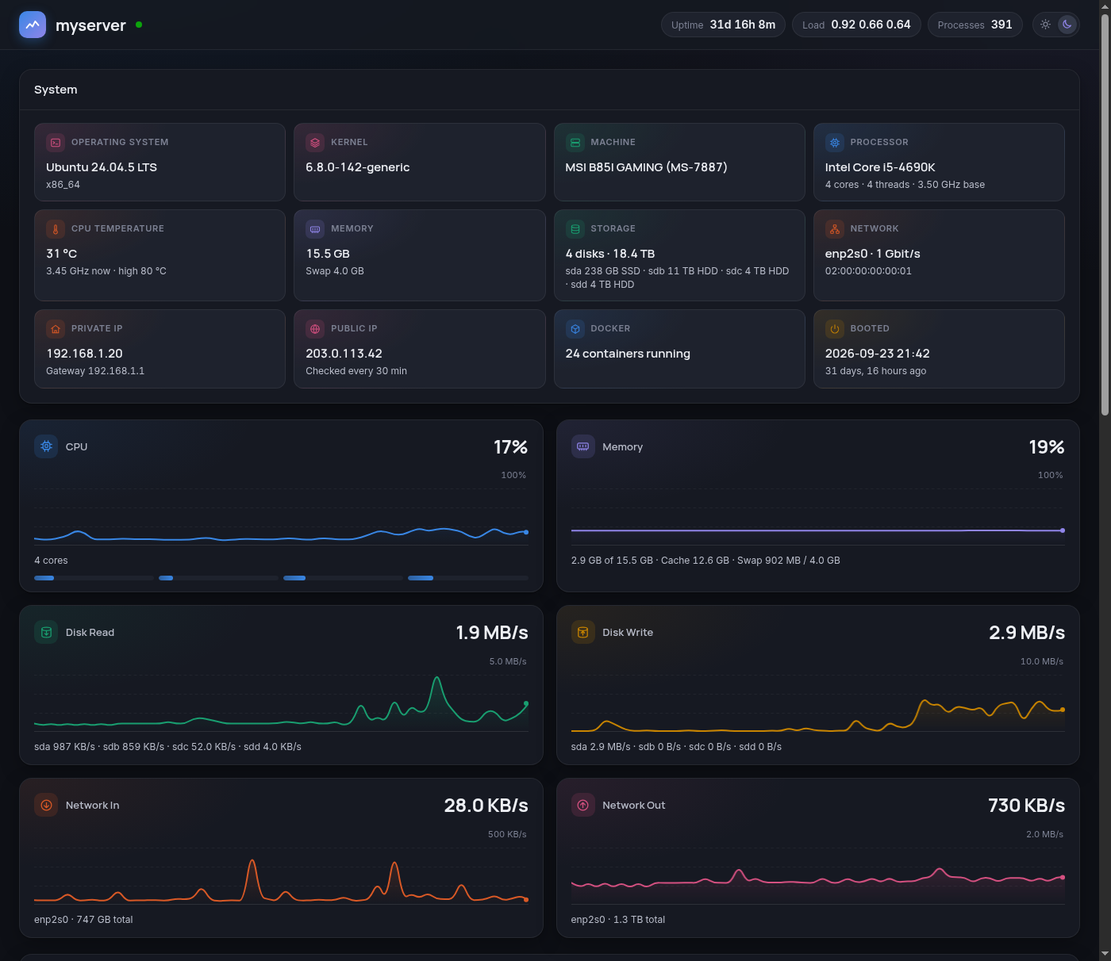
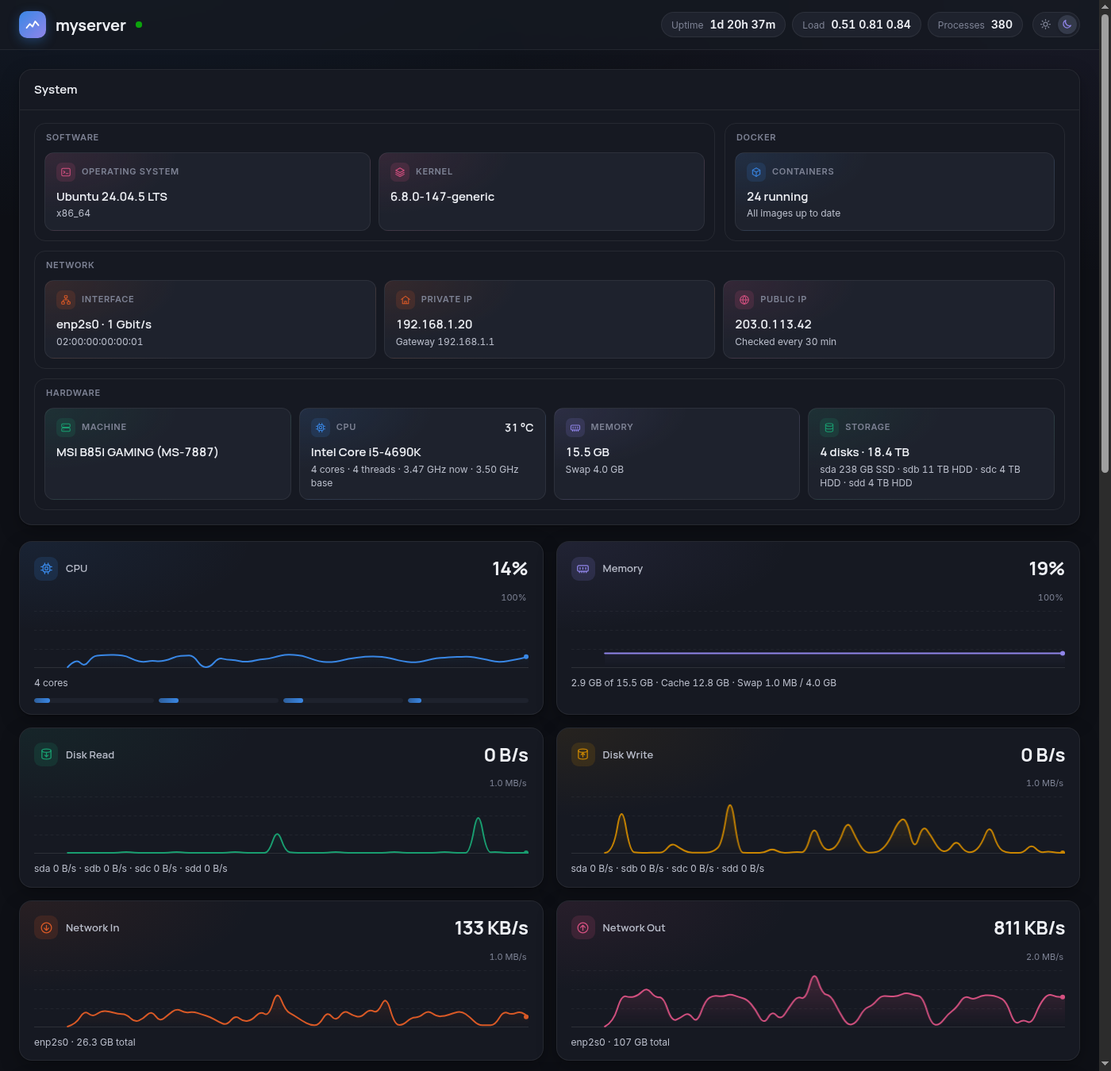
System panel: group the tiles into Software, Docker, Network and Hardware
CPU temperature moves into the CPU tile, and the Booted tile is gone
(the top bar already shows the uptime).

diff --git a/app/static/app.js b/app/static/app.js
@@ -243,45 +243,56 @@ const SYS_ICONS = {
   kernel: '<path d="M12 3l9 5-9 5-9-5 9-5z"/><path d="M3 12.5l9 5 9-5M3 16.5l9 5 9-5"/>',
   machine: '<rect x="3" y="4" width="18" height="7" rx="2"/><rect x="3" y="13" width="18" height="7" rx="2"/><path d="M7 7.5h.01M7 16.5h.01"/>',
   cpu: '<rect x="6" y="6" width="12" height="12" rx="2.5"/><rect x="9.5" y="9.5" width="5" height="5" rx="1"/><path d="M9 2.5v3M15 2.5v3M9 18.5v3M15 18.5v3M2.5 9h3M2.5 15h3M18.5 9h3M18.5 15h3"/>',
-  temp: '<path d="M14 14.8V5a2 2 0 0 0-4 0v9.8a4 4 0 1 0 4 0z"/><path d="M12 17.5v-6"/>',
   mem: '<rect x="2.5" y="7" width="19" height="10" rx="2"/><path d="M7 10.5v3M12 10.5v3M17 10.5v3M6 17v2.5M10 17v2.5M14 17v2.5M18 17v2.5"/>',
   disk: '<ellipse cx="12" cy="6" rx="8" ry="3"/><path d="M4 6v12c0 1.7 3.6 3 8 3s8-1.3 8-3V6M4 12c0 1.7 3.6 3 8 3s8-1.3 8-3"/>',
   net: '<rect x="9" y="3" width="6" height="5" rx="1"/><rect x="3" y="16" width="6" height="5" rx="1"/><rect x="15" y="16" width="6" height="5" rx="1"/><path d="M12 8v4M6 16v-2a2 2 0 0 1 2-2h8a2 2 0 0 1 2 2v2"/>',
   home: '<path d="M3 11l9-7 9 7"/><path d="M5.5 9.5V20h13V9.5M10 20v-5h4v5"/>',
   globe: '<circle cx="12" cy="12" r="9"/><path d="M3 12h18M12 3c2.5 2.5 3.5 5.5 3.5 9s-1 6.5-3.5 9c-2.5-2.5-3.5-5.5-3.5-9s1-6.5 3.5-9z"/>',
   box: '<path d="M12 3l8 4.5v9L12 21l-8-4.5v-9L12 3z"/><path d="M4 7.5l8 4.5 8-4.5M12 12v9"/>',
-  power: '<path d="M12 3v8"/><path d="M6.3 6.8a8 8 0 1 0 11.4 0"/>',
 };
 
 function renderSystem(s, upd) {
   const temp = s.cpu_temp;
-  // [label, value, sub, icon, colour token, extra class]; colours follow the meters where a tile matches one
-  const tiles = [
-    ["Operating system", s.os, s.arch, "os", "--c-net-out"],
-    ["Kernel", s.kernel, "", "kernel", "--c-net-out"],
-    ["Machine", s.machine || "—", "", "machine", "--c-disk-r"],
-    ["Processor", s.cpu_model, [`${s.cores} cores · ${s.threads} threads`, s.cpu_base && `${s.cpu_base} base`].filter(Boolean).join(" · "), "cpu", "--c-cpu"],
-    ["CPU temperature", temp ? `${Math.round(temp.current)} °C` : "—",
-      [s.cpu_freq && `${fmtGHz(s.cpu_freq)} now`, temp?.high && `high ${Math.round(temp.high)} °C`].filter(Boolean).join(" · "),
-      "temp", "--c-net-in", temp?.high && temp.current >= temp.high ? "crit" : ""],
-    ["Memory", fmtBytes(s.mem_total), `Swap ${fmtBytes(s.swap_total)}`, "mem", "--c-mem"],
-    ["Storage", `${s.disks.length} disks · ${fmtBytes(s.disks.reduce((t, d) => t + d.size, 0))}`,
-      s.disks.map((d) => `${d.name} ${fmtBytes(d.size, 0)} ${d.kind}`).join(" · "), "disk", "--c-disk-r"],
-    ["Network", s.nics.map((n) => n.speed > 0 ? `${n.name} · ${fmtSpeed(n.speed)}` : n.name).join(", ") || "—", s.nics.map((n) => n.mac).join(", "), "net", "--c-net-in"],
-    ["Private IP", s.private_ips.join(", ") || "—", s.gateway ? `Gateway ${s.gateway}` : "", "home", "--c-net-in"],
-    ["Public IP", s.public_ip || (s.public_ip_enabled ? "Looking up…" : "Off"), s.public_ip_enabled ? "Checked every 30 min" : "", "globe", "--c-net-out"],
-    // clickable when the container check runs: it opens the list of containers
-    ["Docker", `${s.containers} containers running`,
-      upd?.images ? (upd.containers ? `${upd.containers} update${upd.containers === 1 ? "" : "s"} available` : "All images up to date") : "",
-      "box", "--c-cpu", upd?.images ? "clickable" + (upd.containers ? " warn" : "") : ""],
-    ["Booted", new Date(s.boot * 1000).toLocaleString("sv-SE", { dateStyle: "short", timeStyle: "short" }), fmtAgo(Date.now() / 1000 - s.boot), "power", "--c-disk-w"],
+  // [label, value, sub, icon, colour token, extra class, aside]; colours follow the meters where a tile matches one.
+  // The aside sits at the right end of the tile's label: the CPU temperature
+  const groups = [
+    ["Software", "", [
+      ["Operating system", s.os, s.arch, "os", "--c-net-out"],
+      ["Kernel", s.kernel, "", "kernel", "--c-net-out"],
+    ]],
+    ["Docker", "", [
+      // clickable when the container check runs: it opens the list of containers
+      ["Containers", `${s.containers} running`,
+        upd?.images ? (upd.containers ? `${upd.containers} update${upd.containers === 1 ? "" : "s"} available` : "All images up to date") : "",
+        "box", "--c-cpu", upd?.images ? "clickable" + (upd.containers ? " warn" : "") : ""],
+    ]],
+    ["Network", "wide", [
+      ["Interface", s.nics.map((n) => n.speed > 0 ? `${n.name} · ${fmtSpeed(n.speed)}` : n.name).join(", ") || "—", s.nics.map((n) => n.mac).join(", "), "net", "--c-net-in"],
+      ["Private IP", s.private_ips.join(", ") || "—", s.gateway ? `Gateway ${s.gateway}` : "", "home", "--c-net-in"],
+      ["Public IP", s.public_ip || (s.public_ip_enabled ? "Looking up…" : "Off"), s.public_ip_enabled ? "Checked every 30 min" : "", "globe", "--c-net-out"],
+    ]],
+    ["Hardware", "wide", [
+      ["Machine", s.machine || "—", "", "machine", "--c-disk-r"],
+      ["CPU", s.cpu_model,
+        [`${s.cores} cores · ${s.threads} threads`, s.cpu_freq && `${fmtGHz(s.cpu_freq)} now`, s.cpu_base && `${s.cpu_base} base`].filter(Boolean).join(" · "),
+        "cpu", "--c-cpu", temp?.high && temp.current >= temp.high ? "crit" : "",
+        temp && { text: `${Math.round(temp.current)} °C`, title: temp.high ? `CPU temperature · high ${Math.round(temp.high)} °C` : "CPU temperature" }],
+      ["Memory", fmtBytes(s.mem_total), `Swap ${fmtBytes(s.swap_total)}`, "mem", "--c-mem"],
+      ["Storage", `${s.disks.length} disks · ${fmtBytes(s.disks.reduce((t, d) => t + d.size, 0))}`,
+        s.disks.map((d) => `${d.name} ${fmtBytes(d.size, 0)} ${d.kind}`).join(" · "), "disk", "--c-disk-r"],
+    ]],
   ];
-  $("sysinfo").innerHTML = tiles.map(([label, value, sub, icon, color, cls]) => `
+  const tile = ([label, value, sub, icon, color, cls, aside]) => `
     <div class="${cls || ""}" style="--series: var(${color})" data-tile="${icon}"${cls?.includes("clickable") ? ' role="button" tabindex="0"' : ""}>
-      <dt><span class="icon"><svg viewBox="0 0 24 24" fill="none" stroke="currentColor" stroke-width="1.8" stroke-linecap="round" stroke-linejoin="round" aria-hidden="true">${SYS_ICONS[icon]}</svg></span>${esc(label)}</dt>
+      <dt><span class="icon"><svg viewBox="0 0 24 24" fill="none" stroke="currentColor" stroke-width="1.8" stroke-linecap="round" stroke-linejoin="round" aria-hidden="true">${SYS_ICONS[icon]}</svg></span>${esc(label)}${aside ? `<span class="aside" title="${esc(aside.title)}">${esc(aside.text)}</span>` : ""}</dt>
       <dd title="${esc(value)}">${esc(value)}</dd>
       ${sub ? `<dd class="sub2" title="${esc(sub)}">${esc(sub)}</dd>` : ""}
-    </div>`).join("");
+    </div>`;
+  $("sysinfo").innerHTML = groups.map(([title, cls, tiles]) => `
+    <section class="sysgroup ${cls}" aria-label="${title}">
+      <h3>${title}</h3>
+      <dl style="--n: ${tiles.length}">${tiles.map(tile).join("")}</dl>
+    </section>`).join("");
 }
 
 // ---------- package updates ----------

diff --git a/app/static/style.css b/app/static/style.css
@@ -500,18 +500,41 @@ table { width: 100%; min-width: 980px; table-layout: fixed; border-collapse: col
 .w-threads { width: 84px; }
 .w-status { width: 92px; }
 .w-io-avg { width: 120px; }
+/* four groups: Software | Docker on the first row, Network and Hardware across the full width below */
 .sysinfo {
   display: grid;
-  /* 12 tiles: 6, 4, 3 or 2 per row, so the last row is always full */
-  grid-template-columns: repeat(6, minmax(0, 1fr));
-  gap: 10px;
-  margin: 0;
+  grid-template-columns: 2fr 1fr;
+  gap: 12px;
   padding: 16px 18px 18px;
 }
-@media (max-width: 1400px) { .sysinfo { grid-template-columns: repeat(4, minmax(0, 1fr)); } }
-@media (max-width: 900px) { .sysinfo { grid-template-columns: repeat(3, minmax(0, 1fr)); } }
+.sysgroup {
+  min-width: 0;
+  padding: 10px 12px 12px;
+  border: 1px solid var(--border);
+  border-radius: 14px;
+}
+.sysgroup.wide { grid-column: 1 / -1; }
+.sysgroup h3 {
+  margin: 0 2px 10px;
+  font-size: 11px;
+  font-weight: 600;
+  text-transform: uppercase;
+  letter-spacing: 0.06em;
+  color: var(--muted);
+}
+.sysgroup dl {
+  display: grid;
+  grid-template-columns: repeat(var(--n), minmax(0, 1fr));
+  gap: 10px;
+  margin: 0;
+}
+@media (max-width: 900px) {
+  .sysinfo { grid-template-columns: minmax(0, 1fr); }
+  .sysgroup dl { grid-template-columns: repeat(min(var(--n), 2), minmax(0, 1fr)); }
+  .sysgroup dl > div:last-child:nth-child(odd) { grid-column: 1 / -1; }
+}
 /* each tile gets its topic's meter colour: the same corner tint and icon chip as the meters */
-.sysinfo div {
+.sysinfo dl > div {
   min-width: 0;
   padding: 12px 14px;
   border-radius: 12px;
@@ -521,7 +544,7 @@ table { width: 100%; min-width: 980px; table-layout: fixed; border-collapse: col
   border: 1px solid var(--border);
   transition: border-color 0.2s;
 }
-.sysinfo div:hover { border-color: color-mix(in srgb, var(--series) 35%, transparent); }
+.sysinfo dl > div:hover { border-color: color-mix(in srgb, var(--series) 35%, transparent); }
 .sysinfo dt {
   display: flex;
   align-items: center;
@@ -532,6 +555,16 @@ table { width: 100%; min-width: 980px; table-layout: fixed; border-collapse: col
   text-transform: uppercase;
   letter-spacing: 0.06em;
   color: var(--muted);
+}
+/* the CPU temperature, at the right end of the CPU tile's label */
+.sysinfo dt .aside {
+  margin-left: auto;
+  font-family: var(--font-display);
+  font-size: 14px;
+  letter-spacing: 0;
+  color: var(--ink);
+  white-space: nowrap;
+  font-variant-numeric: tabular-nums;
 }
 .sysinfo dd {
   margin: 4px 0 0;
@@ -554,7 +587,7 @@ table { width: 100%; min-width: 980px; table-layout: fixed; border-collapse: col
 }
 .sysinfo .icon { width: 24px; height: 24px; border-radius: 7px; }
 .sysinfo .icon svg { width: 14px; height: 14px; }
-.sysinfo .crit dd:not(.sub2) { color: var(--critical); }
+.sysinfo .crit .aside { color: var(--critical); }
 /* the Docker tile opens the list of containers */
 .sysinfo .clickable { cursor: pointer; }
 .sysinfo .clickable:focus-visible { outline: 2px solid var(--accent); outline-offset: 2px; }
@@ -644,8 +677,10 @@ tbody tr.sel td:first-child { box-shadow: inset 3px 0 0 var(--accent); }
   .icon svg { width: 15px; height: 15px; }
   .meter .value { font-size: 19px; }
   .chart { height: 64px; }
-  .sysinfo { grid-template-columns: repeat(2, minmax(0, 1fr)); gap: 8px; padding: 12px; }
-  .sysinfo div { padding: 10px 12px; }
+  .sysinfo { gap: 10px; padding: 12px; }
+  .sysgroup { padding: 8px 8px 10px; }
+  .sysgroup dl { gap: 8px; }
+  .sysinfo dl > div { padding: 10px 12px; }
   .sysinfo dd { font-size: 14px; white-space: normal; overflow-wrap: anywhere; }
   /* updates: one card per package (name and source, then old → new) instead of four columns */
   table.updates, table.updates tbody { display: block; min-width: 0; }

diff --git a/app/static/index.html b/app/static/index.html
@@ -45,7 +45,7 @@
       <div class="toolbar">
         <h2>System</h2>
       </div>
-      <dl class="sysinfo" id="sysinfo"></dl>
+      <div class="sysinfo" id="sysinfo"></div>
     </section>
 
     <section class="meters" aria-label="Performance">

diff --git a/app/main.py b/app/main.py
@@ -320,7 +320,6 @@ class Sampler:
             "disks": disks,
             "nics": nics,
             "timezone": tz,
-            "boot": psutil.boot_time(),
         }
 
     def _slow_info(self) -> dict:

diff --git a/CLAUDE.md b/CLAUDE.md
@@ -25,7 +25,7 @@ A web page that shows live stats for a Linux server, in the style of Windows Tas
 - **Grouping by name** (the user asked for this): the table shows one row per process name. Groups with more than one process can be expanded to show each process. The server tracks each group's cumulative CPU time (`_group_totals`). That total includes members that have exited, so a crash loop with a new PID every second (for example an app that keeps restarting because an old instance holds its port) still gets a stable Avg CPU. A group with no live process stays as a dimmed "exited" row while its average is ≥ 0.1 %. Limitation: CPU a process uses after its last sample and before it exits is lost, so short-lived loops are under-counted.
 - **Network by container:** Linux has no per-process network counter. The user rejected the advanced options (packet capture or eBPF), so this panel shows each network namespace instead. `_container_net` reads `/proc/<pid>/net/dev` for one process per namespace and counts only `eth*`, because `tun0`/`wg0` would count VPN traffic twice. Names come from the cgroup's container id, looked up in `/var/lib/docker/containers/<id>/config.v2.json` (a read-only mount at `/host/docker-containers`). Containers that share a namespace are joined with `+`, for example `vpn + torrent`. A namespace that is not Docker is labeled by its systemd unit and owner, for example rootless Docker's rootlesskit appears as `docker.service (<user>)`. The namespace list is rescanned every 10 s. The panel always samples, without needing clients. It is sorted by the 60 s average and shows the top 6, with a "Show all" button. The host's own namespace is not in the panel; it is what the NIC meters show. The NIC can therefore show much more than the containers add up to, because processes on the host network are not in the panel.
 - **Filesystems panel** (like `duf`): `_filesystems` reads the host's mounts from `/proc/1/mounts`, not the container's own. It runs `statvfs` on `/proc/1/root/<mount>`, so no extra volume is needed. It lists block devices (not loop devices) and `fuse.*` mounts, and skips `/boot` and `/snap`. Bind mounts are reduced to one row per device. It is rescanned every 10 s. Use% is used/size, as in duf, and the bar colours follow duf's thresholds: yellow from 50 %, red from 90 %.
-- **System panel:** it sits above the meters (the user asked for this). It has 12 tiles, and each one has an icon chip and a corner tint in the meter colour of its topic (`SYS_ICONS` and the colour token in `renderSystem`). The grid has 6, 4, 3 or 2 columns, so the last row is always full; keep the count divisible if you add tiles. Static facts are read once at startup (`_static_info`): OS from the host's `/proc/1/root/etc/os-release`, the board from `/sys/class/dmi` (OEM placeholders such as "System manufacturer" count as empty, `DMI_PLACEHOLDER_RE`; the vendor then comes from `board_vendor`, shortened by `short_vendor` so the tile fits: "ASUSTeK COMPUTER INC." is "ASUS"), and the disks from `/sys/block` (`rotational` decides HDD or SSD). IP, gateway and the container count are refreshed every 10 s. The container count comes from `State.Running` in `config.v2.json`, not from cgroups, because Kongo's own processes see their cgroup as `/` and would be missed. CPU temperature and frequency are live. The public IP is the only outbound call: `public_ip_loop` fetches `PUBLIC_IP_URL` (api.ipify.org) every 30 min, and an empty value turns it off.
+- **System panel:** it sits above the meters (the user asked for this). Its tiles are in four groups (the user asked for this; `groups` in `renderSystem`): Software (OS, kernel) and Docker side by side at `2fr 1fr`, so the three tiles are the same width, then Network (interface, private IP, public IP) and Hardware (machine, CPU, memory, storage) each across the full width. Below 900 px the groups stack, with at most two tiles per row and an odd last tile spanning both. Each tile has an icon chip and a corner tint in the meter colour of its topic (`SYS_ICONS` and the colour token). The CPU temperature sits at the right of the CPU tile's label (the tile's `aside`), red at or above the sensor's `high`. There is no boot time tile: the top bar shows the uptime. Static facts are read once at startup (`_static_info`): OS from the host's `/proc/1/root/etc/os-release`, the board from `/sys/class/dmi` (OEM placeholders such as "System manufacturer" count as empty, `DMI_PLACEHOLDER_RE`; the vendor then comes from `board_vendor`, shortened by `short_vendor` so the tile fits: "ASUSTeK COMPUTER INC." is "ASUS"), and the disks from `/sys/block` (`rotational` decides HDD or SSD). IP, gateway and the container count are refreshed every 10 s. The container count comes from `State.Running` in `config.v2.json`, not from cgroups, because Kongo's own processes see their cgroup as `/` and would be missed. CPU temperature and frequency are live. The public IP is the only outbound call: `public_ip_loop` fetches `PUBLIC_IP_URL` (api.ipify.org) every 30 min, and an empty value turns it off.
 - **Package updates** (the user asked for this, for any package manager): a badge after the host name shows the number of available updates (red if any are security updates), and clicking it opens a `<dialog>` with the list. The logic is in `app/updates.py`: one `Manager` per package manager (apt, dnf5, dnf4, zypper, pacman, apk). `detect` picks the first whose binary exists in the host's root; with none, the badge stays hidden. The check runs the host's own binary with `chroot --userspec=65534:65534 /proc/1/root`, so it runs as nobody and can't change anything. It needs no extra volume and gives exactly what the host's package manager shows, including third-party repos. Each run gets a temporary HOME in the host's `/tmp` (`scratch_home`, owned by the user the run is as), deleted afterwards (dnf5 writes its log there; dnf5 also needs `--setopt=system_cachedir` to read the system cache as non-root). `updates_loop` in `main.py` reruns when the newest mtime of the manager's `installed` or `lists` globs or of `/run/reboot-required` changes (polled every 60 s), and at least every `recheck` (1 h). **Refreshing the lists** (the user asked for every 12 h): when `lists_updated` (newest mtime of the `lists` globs, or the last refresh by Kongo, because a refresh that finds nothing new may touch no file) is older than `UPDATES_REFRESH_HOURS` (default 12, 0 = off and Kongo only reads), the loop runs the manager's `update` **as root** in the chroot: `apt-get update`, `dnf makecache`, `zypper refresh` or `apk update`, as the host's own timers do. If those keep the lists fresh, Kongo never refreshes. A failed refresh (offline, lock held) is logged and retried in 10 min, and the check still runs on the old lists. **Opening the popup** (the user asked for this, so that a restart doesn't miss new updates) calls `POST /api/updates/check`. That adds a future to `updates_waiters` and wakes the loop. The loop refreshes the lists if they are older than `UPDATES_ON_OPEN` (10 min), checks again, and resolves every waiting future, so two tabs share one `apt-get update`. The reply is the fresh list. Meanwhile the popup shows the current list with "checking for new updates…", and Restart and Install are disabled. `loadSeq` keeps a slower, older reply from overwriting the newer one. The endpoint has no password: the worst it can do is an `apt-get update` every 10 min. After a failed check it retries in 10 min and logs the error to `docker logs`. **pacman** never syncs the host's own sync dbs (partial upgrades): `update_pacman` does what `checkupdates` does and syncs a private copy in `/var/cache/kongo/pacman` on the host (seeded from the host's dbs, `local` symlinked; `pacman -Sy` refuses to run as non-root, so that step runs as root). `check_pacman` reads that copy once it exists. Do not move it to `/tmp`: pacman writes there as root, and a local user could plant symlinks in a world-writable directory. Security updates are marked for apt (suite `*-security`) and dnf (a second run with `--security`); zypper's are patches, not package flags, so they are not marked. Restart required comes from `/run/reboot-required` (Debian/Ubuntu, with `.pkgs`), from the running kernel's directory missing under `/usr/lib/modules` (Arch and others remove the old one), from a `/boot/vmlinuz-*` or `/usr/lib/modules/*/vmlinuz` whose **ctime** is after the boot (a kernel installed since then; not mtime, because packages keep their build date as mtime; this caught a real case where Ubuntu's `/run/reboot-required` was missing), and from `zypper needs-rebooting` (exit 102). The tick carries only a summary (`count`, `security`, `reboot`); the dialog fetches the list, the manager name and the upgrade command from `GET /api/updates`. With 0 updates but a restart needed, the badge says "Restart required". On phones the dialog shows one card per package instead of four columns. To test another distro without a VM, start its image as a container on the server, and call `updates.refresh(root, mgr)` and then `updates.check(root, mgr, time.time())` with `root = f"/proc/{pid}/root"` and `mgr = updates.detect(root)` inside the kongo container (pid: host, so its root is reachable). Ubuntu, Fedora 41 (dnf5), Rocky 9 (dnf4), Leap, Tumbleweed, Arch and Alpine were all checked this way against the native command's counts, both reading and refreshing.
 - **Container updates** (the user asked for this): `app/images.py`. It talks to the host's Docker API over `/proc/1/root/run/docker.sock` (not `/var/run/…`: `/var/run` is an absolute symlink and would resolve inside the container), so no volume is needed. For each running container it compares the digests in the image's `RepoDigests` with the digest the registry gives for the tag (a `HEAD` on `/v2/<repo>/manifests/<tag>` with an anonymous Bearer token from the 401's `WWW-Authenticate`; Docker Hub doesn't count `HEAD` against the pull limit). `parse_ref` maps `nginx` to `registry-1.docker.io/library/nginx`. Each container gets one status: `pull` (the registry has a newer image), `recreate` (the tag's local image ≠ the container's `ImageID`, so a newer image is already pulled), `ok`, `local` (no RepoDigests: built here), `pinned` (`@sha256`) or `error`. When the tag has moved on, Docker shows the image id as the container's `Image`, so the name comes from `Config.Image`. Registry answers are cached per ref for `CONTAINER_UPDATES_HOURS` (default 12; the user said 12 h is enough, so opening a popup does **not** ask the registries again). The local side is checked every minute by `images_loop`, so a container that was updated drops off within a minute. The tick's `updates` summary has `containers` (pull + recreate) and `images`. The badge counts them, and the updates popup has a "Docker containers" section with only those that need something, each updatable one with its own **Update** button (the same `data-update` handling as the Docker popup; after a run there, the popup waits for the list that run changed: `images.checked` after a container run, `updatesChecked` after a package run; waiting for both kept every button disabled for up to a minute, because the container endpoint doesn't wake `updates_loop`). **The Docker tile is clickable** (the user asked for this) and opens `#docker-dialog` with every running container from `GET /api/containers`, updates first, and its sub line says how many updates there are. **Updating containers** (the user asked for this): in the Docker popup, every updatable row has an **Update** button (`data-update`, sets `adminTarget`), and the footer has **Update all** (`adminTarget = null`, so it sends all of `dockerPending`). Both are behind the same password (`POST /api/admin/containers` with the `names`, so only containers the popup showed get recreated). It runs as the same `kongo-upgrade` unit as Install updates (one job at a time; `job()["kind"]` comes from the unit's Description), so the job view, log and busy handling are shared. `images.update_script` writes a script to `/var/cache/kongo/update-containers.sh` (root-only; a file rather than `sh -c`, so systemd-run doesn't expand its `$`, and `shlex.quote` handles the folders). Per project, it runs `cd <working_dir> && docker compose -p … -f <config_files> pull <services> && … up -d`: `up -d` for the whole project, as the hint says, so compose recreates only the changed containers and their dependents (for example an app on a VPN container's network). Only compose containers are `updatable` (they have the `project`/`dir`/`service` labels); `docker run` ones are counted in the hint as "update by hand". While the job runs, `images_loop` waits (5 s polls) and checks as soon as it ends; the endpoint sets `images_wake`. The password form (`#admin-form`) and the job's log (`#job`) are shared by both popups: `mountAdmin(dlg)` moves them into the open one (`.job-slot`, `.dialog-foot`), and `renderJob` works on `activeDlg`. To test it, use a throwaway compose project with an old image tagged `:latest`: call `images.update_script` and `admin.start_containers` from python in the container, then `compose down` and remove it. Never use a real stack. To test the check, tag an old image as `:latest` and run a container from it (status `pull`), then pull the real `:latest` (status `recreate`), and clean up afterwards.
 - **Open buttons** (the user asked for this): `app/webui.py` finds which containers serve a web page, and `images.check` puts the result in each row's `web` (`[{port, scheme}]`). The candidates are TCP ports Docker publishes on 0.0.0.0/::, and for `network_mode: host` containers the ports in the host's `/proc/<pid>/net/tcp{,6}` that are LISTEN on a non-loopback address and whose socket inode is held by one of the container's processes (the main pid from inspect plus its children, through `/proc/<pid>/fd`; pid: host makes that the host's /proc). Containers with `NetworkMode: container:<id>` publish nothing themselves. For the container that does publish (for example a VPN container), each published port goes to the container in the shared namespace whose process holds the socket listening on the private port, so qbittorrent gets 8080, not gluetun. Kongo skips itself (its own pid is in the container). Each candidate gets `GET /` over http, then https (unverified). It counts when the answer is HTML with status < 400, a 401, or a redirect that stays on the same scheme and port (unifi's inform port redirects to https on an http port, so it doesn't count). A 400 on http means trying https; a proxy's 404 page doesn't count. Answers are cached per (container id, port) for 10 min. The button opens `scheme://<the page's hostname>:<port>/`; with several web ports, each is labeled with its port. It has its own column (`td.web`) before Update; on phones both sit on a row of their own under the status.
@@ -42,4 +42,4 @@ A web page that shows live stats for a Linux server, in the style of Windows Tas
 - The static files are **baked into the image** (`COPY app`). After any change, run `docker compose up -d --build` on the server (`CLAUDE.local.md` says how to reach it).
 - Check the data: `curl -s localhost:8090/api/snapshot | head -c 1500` on the server. Compare the values with `free -b` and `top -bn2 -d1`.
 - Check under load: `dd if=/dev/zero of=./ddtest bs=1M count=3000 oflag=direct`. Disk Write should rise on the disk you wrote to, and `dd` should appear in the process list with its write rate. Remove `ddtest` afterwards.
-- Look at the page: `node tools/screenshot.mjs http://<host>:8090/ /tmp/desk.png 1400 1000`. Add `390 900 dark` for the mobile dark view. The README image `docs/screenshot.png` is taken with `KONGO_ANON=1 … docs/screenshot.png 1400 1212 dark`, which replaces the host name, IPs and MAC with made-up values. Always use it for images that get committed. `docs/updates.png` and `docs/restart.png` (in the README) are taken with `KONGO_ANON=1 KONGO_DEMO=updates` (or `restart`) `KONGO_CLIP=#updates-dialog KONGO_CLICK='#updates|js:0' … 1100 1000 dark`: `KONGO_DEMO` stages made-up packages and containers in the ticks and in the API replies (by wrapping `fetch`), and `KONGO_CLIP` crops to that element. `KONGO_CLICK=<selector>` clicks an element before the capture, for example `KONGO_CLICK=#updates` for the updates dialog. This uses local Chromium over CDP. Do not use plain `chromium --screenshot`, because it captures before the WebSocket data arrives.
+- Look at the page: `node tools/screenshot.mjs http://<host>:8090/ /tmp/desk.png 1400 1000`. Add `390 900 dark` for the mobile dark view. The README image `docs/screenshot.png` is taken with `KONGO_ANON=1 … docs/screenshot.png 1400 1350 dark`, which replaces the host name, IPs and MAC with made-up values. Always use it for images that get committed. `docs/updates.png` and `docs/restart.png` (in the README) are taken with `KONGO_ANON=1 KONGO_DEMO=updates` (or `restart`) `KONGO_CLIP=#updates-dialog KONGO_CLICK='#updates|js:0' … 1100 1000 dark`: `KONGO_DEMO` stages made-up packages and containers in the ticks and in the API replies (by wrapping `fetch`), and `KONGO_CLIP` crops to that element. `KONGO_CLICK=<selector>` clicks an element before the capture, for example `KONGO_CLICK=#updates` for the updates dialog. This uses local Chromium over CDP. Do not use plain `chromium --screenshot`, because it captures before the WebSocket data arrives.

diff --git a/README.md b/README.md
@@ -4,7 +4,7 @@ A live stats page for a Linux server, in the style of Windows Task Manager. It r
 
 ![Kongo in dark mode](docs/screenshot.png)
 
-- **System:** OS, kernel, CPU and temperature, memory, disks, network, private and public IP, running containers and boot time
+- **System:** OS, kernel, CPU and temperature, memory, disks, network, private and public IP, and running containers
 - **Package updates:** a badge next to the host name shows how many updates are available and whether a restart is needed. Click it to see the list, and to install the updates or restart the server with the password of a Linux admin user. Works with apt (Debian, Ubuntu), dnf (Fedora, RHEL, Rocky, Alma), zypper (openSUSE), pacman (Arch) and apk (Alpine).
 - **Container updates:** click the Docker tile to see every running container and whether its image has a newer version, in the registry or already pulled but not in use yet. The badge counts them too, and with the admin buttons on you can update them from there. Containers with a web UI get an **Open** button that opens it in a new tab.
 - **Meters:** CPU, Memory, Disk Read, Disk Write, Network In and Network Out, each with a 60-second graph
